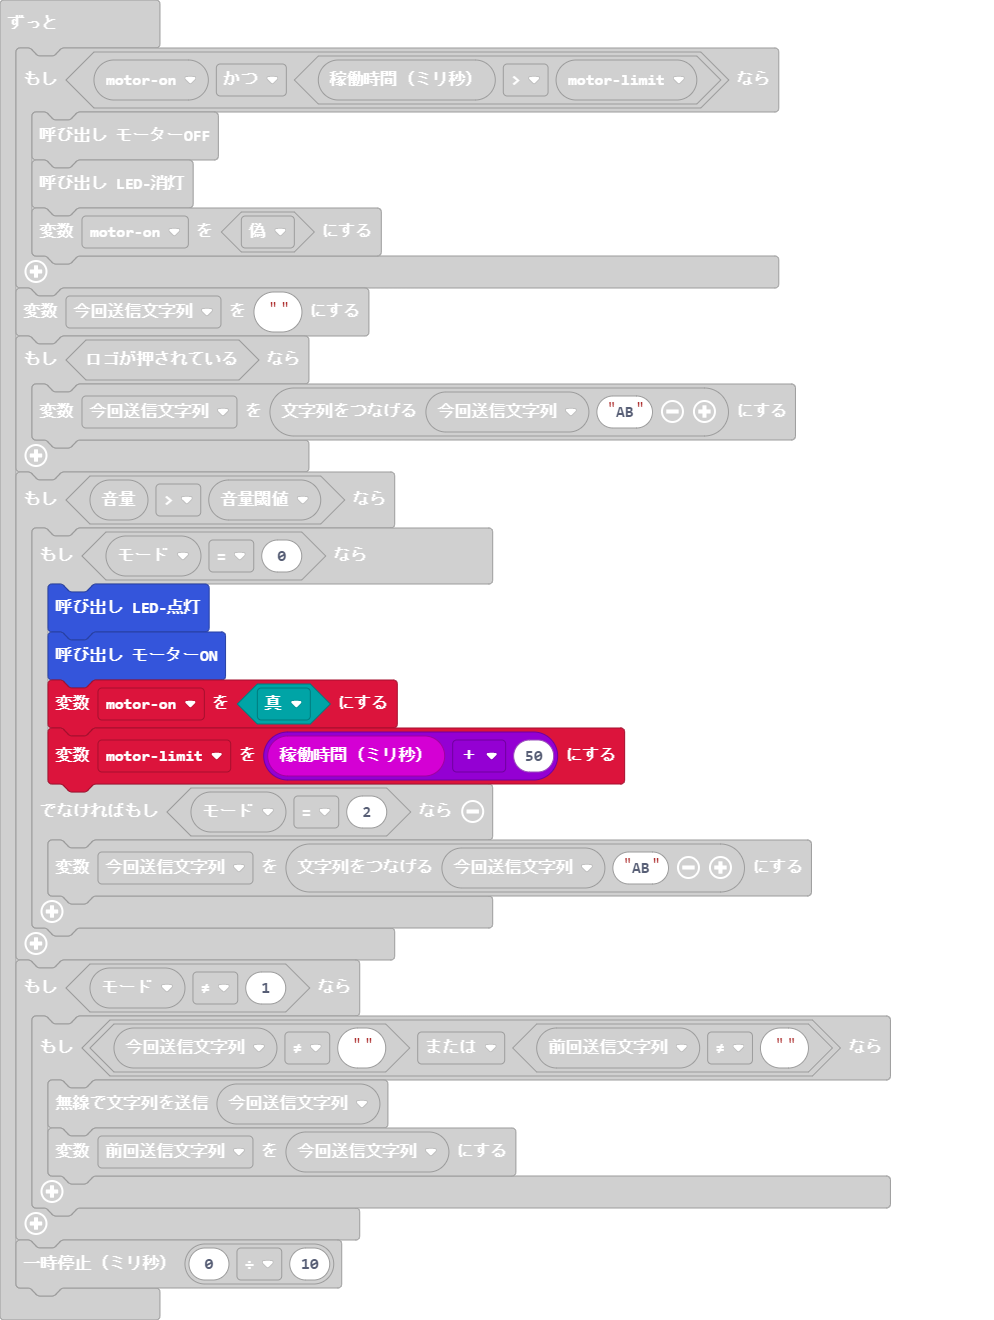
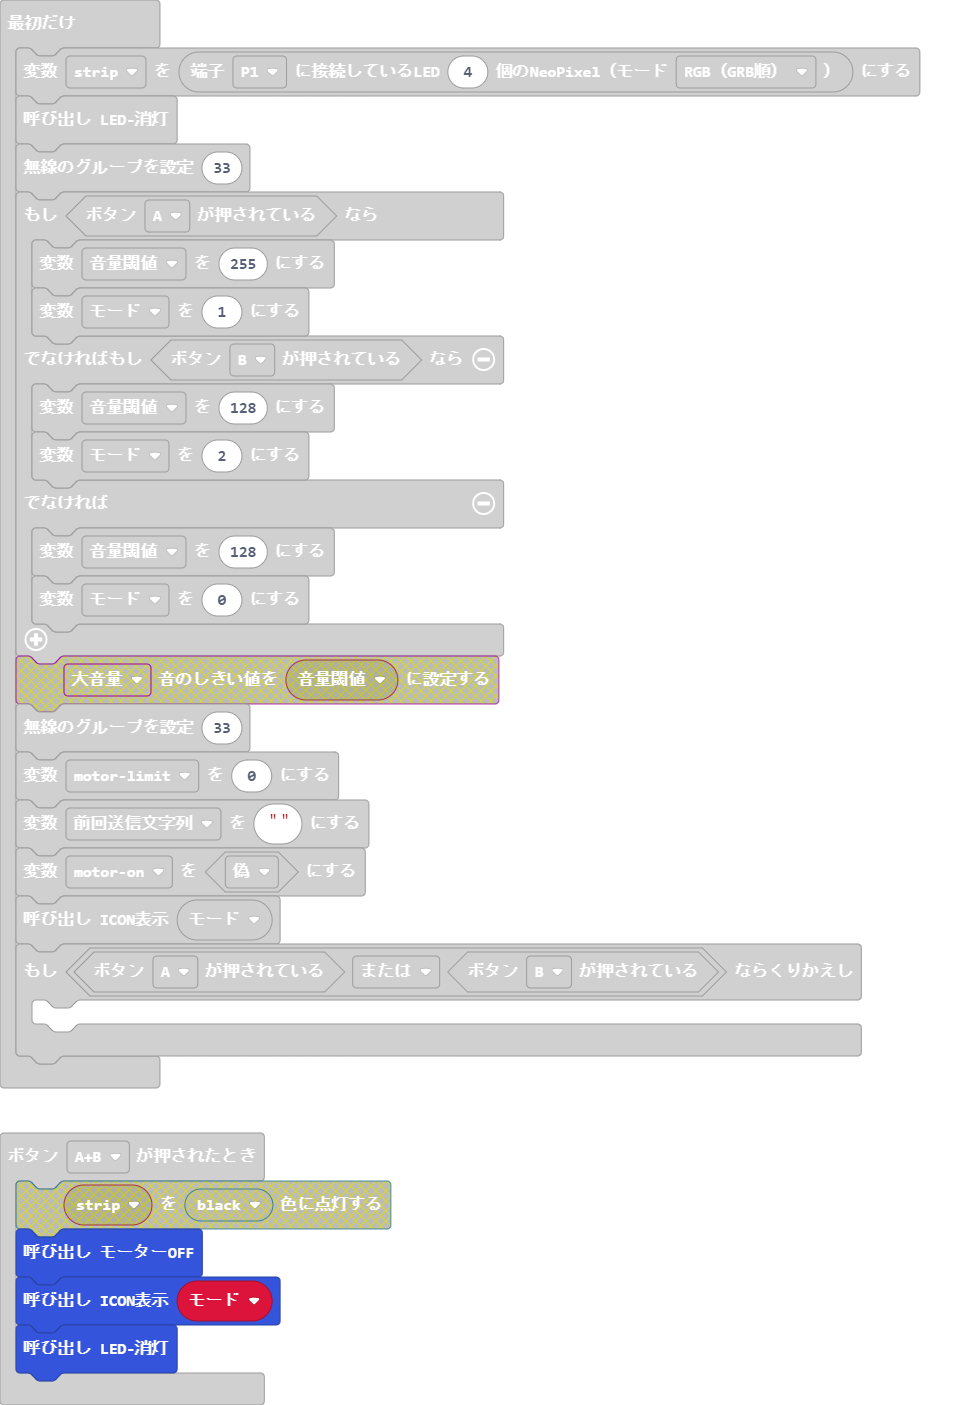
更新 main.blocks, main.ts

diff --git a/main.ts b/main.ts
@@ -49,7 +49,7 @@ function LED消灯 () {
     strip.showColor(neopixel.colors(NeoPixelColors.Black))
 }
 input.onButtonPressed(Button.AB, function () {
-    strip.showColor(neopixel.colors(NeoPixelColors.Black))
+    LED消灯()
     モーターOFF()
     ICON表示(モード)
 })
@@ -103,7 +103,6 @@ if (input.buttonIsPressed(Button.A)) {
     音量閾値 = 128
     モード = 0
 }
-input.setSoundThreshold(SoundThreshold.Loud, 音量閾値)
 radio.setGroup(33)
 let motorlimit = 0
 let 前回送信文字列 = ""
